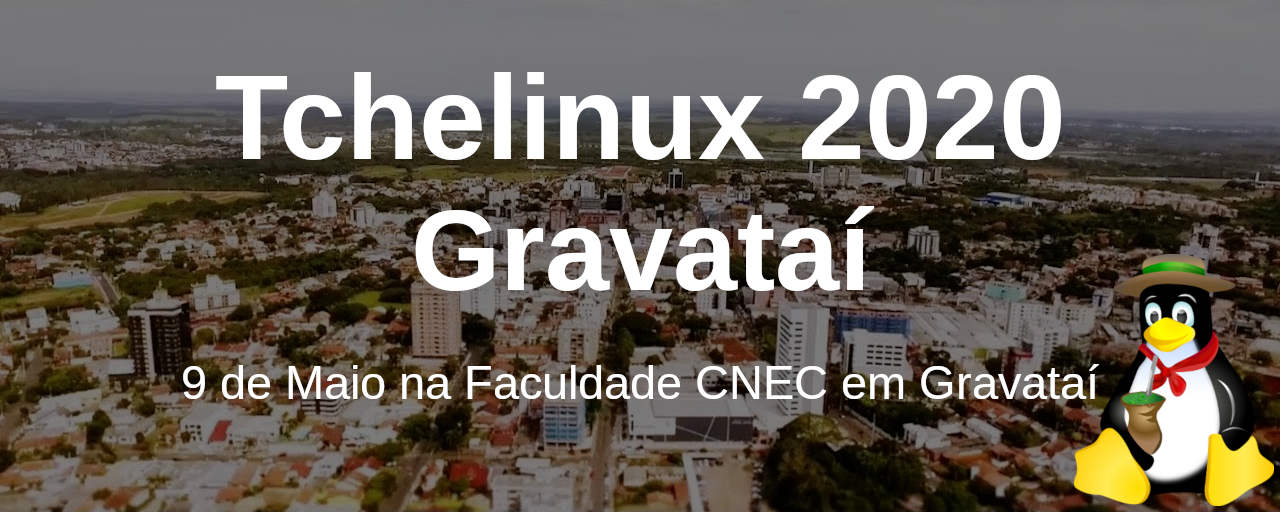
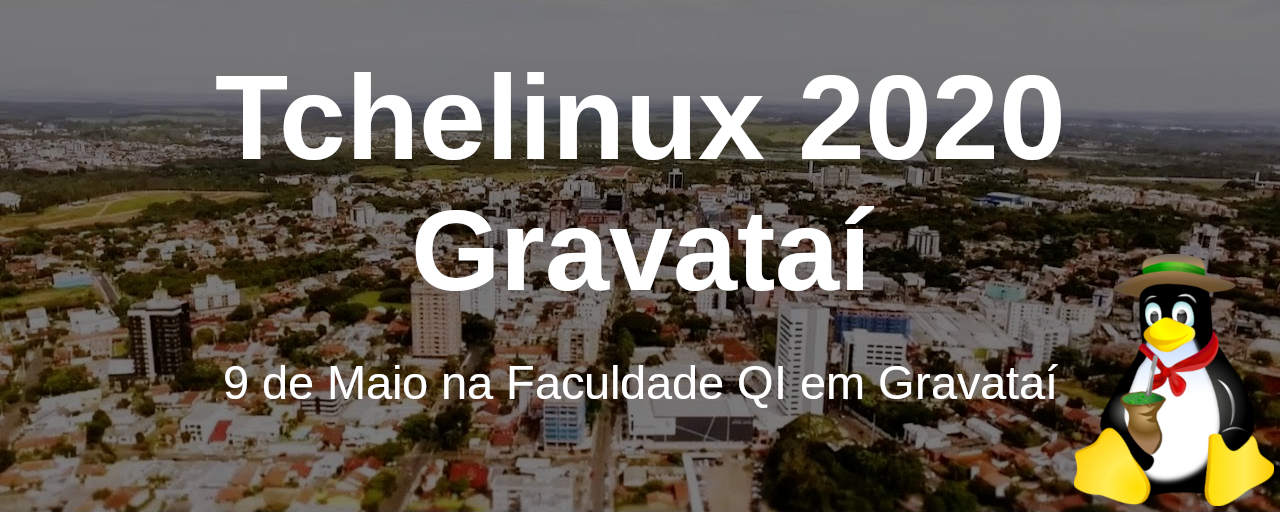
Alterado local do Tchelinux 2020 Gravataí

Changed region(s): [[0.125, 0.7188, 0.875, 0.7812]]

diff --git a/index.md b/index.md
@@ -2,7 +2,7 @@
 
 ## Sobre
 
-O grupo de usuários de Software Livre Tchelinux, em parceria com a [CNEC](http://educacaosuperior.cnec.br/gravatai), tem o prazer de convidar a comunidade para participar do evento que ocorrerá no dia **9 de Maio de 2020 a partir das 8:30h** na Faculdade CNEC em Gravataí.
+O grupo de usuários de Software Livre Tchelinux, em parceria com a [**Faculdade QI** ](https://qi.edu.br/graduacao/informacoes/faqigravatai/), tem o prazer de convidar a comunidade para participar do evento que ocorrerá no dia **9 de Maio de 2020 a partir das 8:30h** na Faculdade QI em Gravataí.
 
 ## Chamada de Trabalhos
 
@@ -26,20 +26,20 @@ Serão fornecidos certificados digitais para os participantes do evento, que con
 
 ## Local
 
-> **Faculdade CNEC Gravataí**
-> Avenida José Loureiro da Silva, 1991
+> **Faculdade QI Gravataí**
+> Av. Dorival Cândido Luz de Oliveira, 2595 
 > Centro
 > Gravataí - RS
 
 <div class="map-responsive">
-  <iframe src="https://www.google.com/maps/embed?pb=!1m14!1m8!1m3!1d864.3617305999599!2d-50.99558219878716!3d-29.937820891395525!3m2!1i1024!2i768!4f13.1!3m3!1m2!1s0x0%3A0x938e4c639aea5669!2sFaculty%20Cenecista%20Our%20Lady%20of%20Angels!5e0!3m2!1sen!2sbr!4v1582082019672!5m2!1sen!2sbr" width="800" height="600" frameborder="0" style="border:0;" allowfullscreen=""></iframe>
+   <iframe src="https://www.google.com/maps/embed?pb=!1m18!1m12!1m3!1d13830.177994840682!2d-51.03092818575107!3d-29.93501300369206!2m3!1f0!2f0!3f0!3m2!1i1024!2i768!4f13.1!3m3!1m2!1s0x951974ae5a6229b3%3A0xd016a63016b3c190!2sAv.%20Dorival%20C%C3%A2ndido%20Luz%20de%20Oliveira%2C%202595%20-%20Parada%2074%2C%20Gravata%C3%AD%20-%20RS%2C%2094030-001!5e0!3m2!1sen!2sbr!4v1583280917271!5m2!1sen!2sbr" width="800" height="600" frameborder="0" style="border:0;" allowfullscreen=""></iframe>
 </div>
 
 ## Apoio
 
 ### Institucional
 
-[![Faculdade CNEC Gravataí](images/cnec.png)](http://educacaosuperior.cnec.br/gravatai)
+[![Faculdade QI Gravataí](images/logo_QI.png)](https://qi.edu.br/graduacao/informacoes/faqigravatai/)
 
 ### Patrocínio
 
